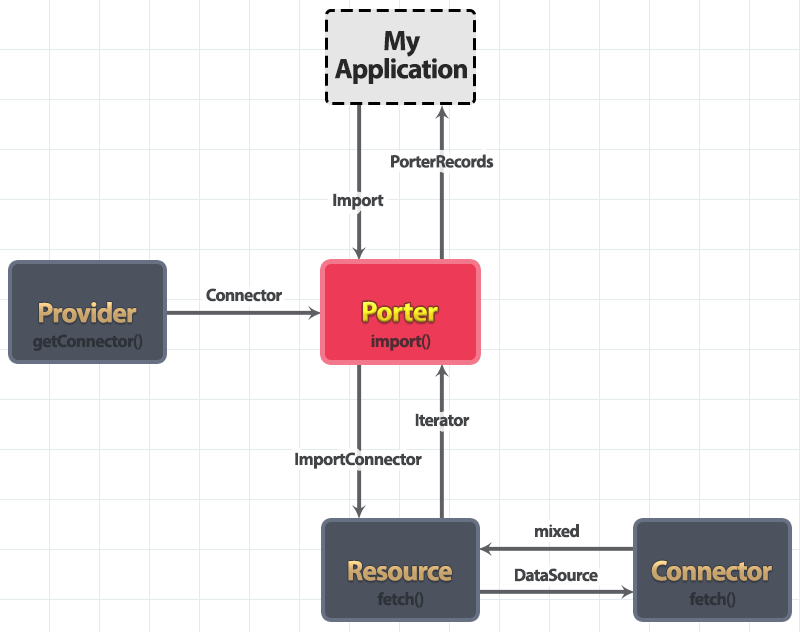
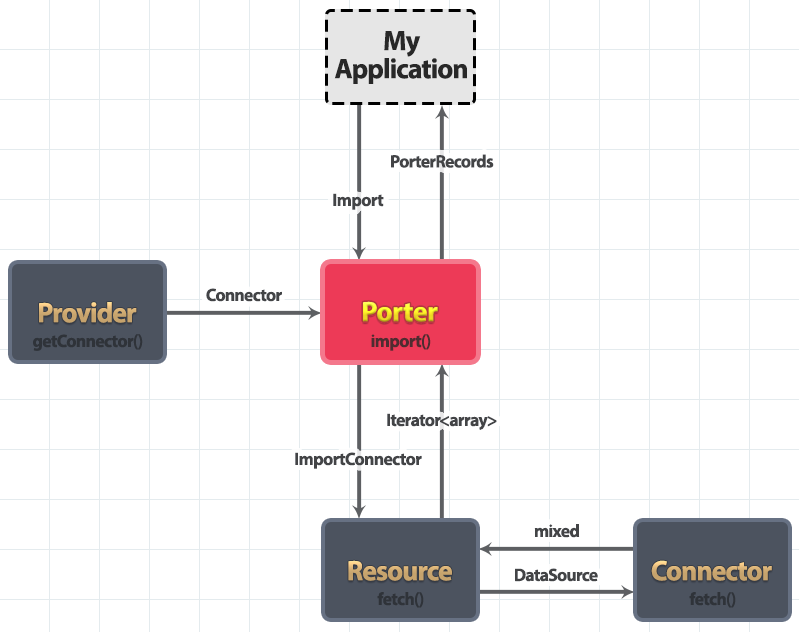
Updated Porter data flow diagram to include Iterator<array> generic type.

diff --git a/docs/Quickstart Symfony.md b/docs/Quickstart Symfony.md
@@ -13,7 +13,7 @@ composer create-project symfony/skeleton . ^5
 
 Let's start with the [Steam provider][] for Porter by including it in our `composer.json` with the following command.
 
->Note: The Steam provider requires [Amp v3][], which is currently in beta, so we need to allow beta dependencies temporarily. This can be enabled with the following command.
+>Note: The Steam provider requires [Amp v3][], which is currently in beta, so we need to allow beta dependencies temporarily. This can be enabled with the following commands.
 > ```sh
 > composer config minimum-stability beta
 > composer config prefer-stable true
